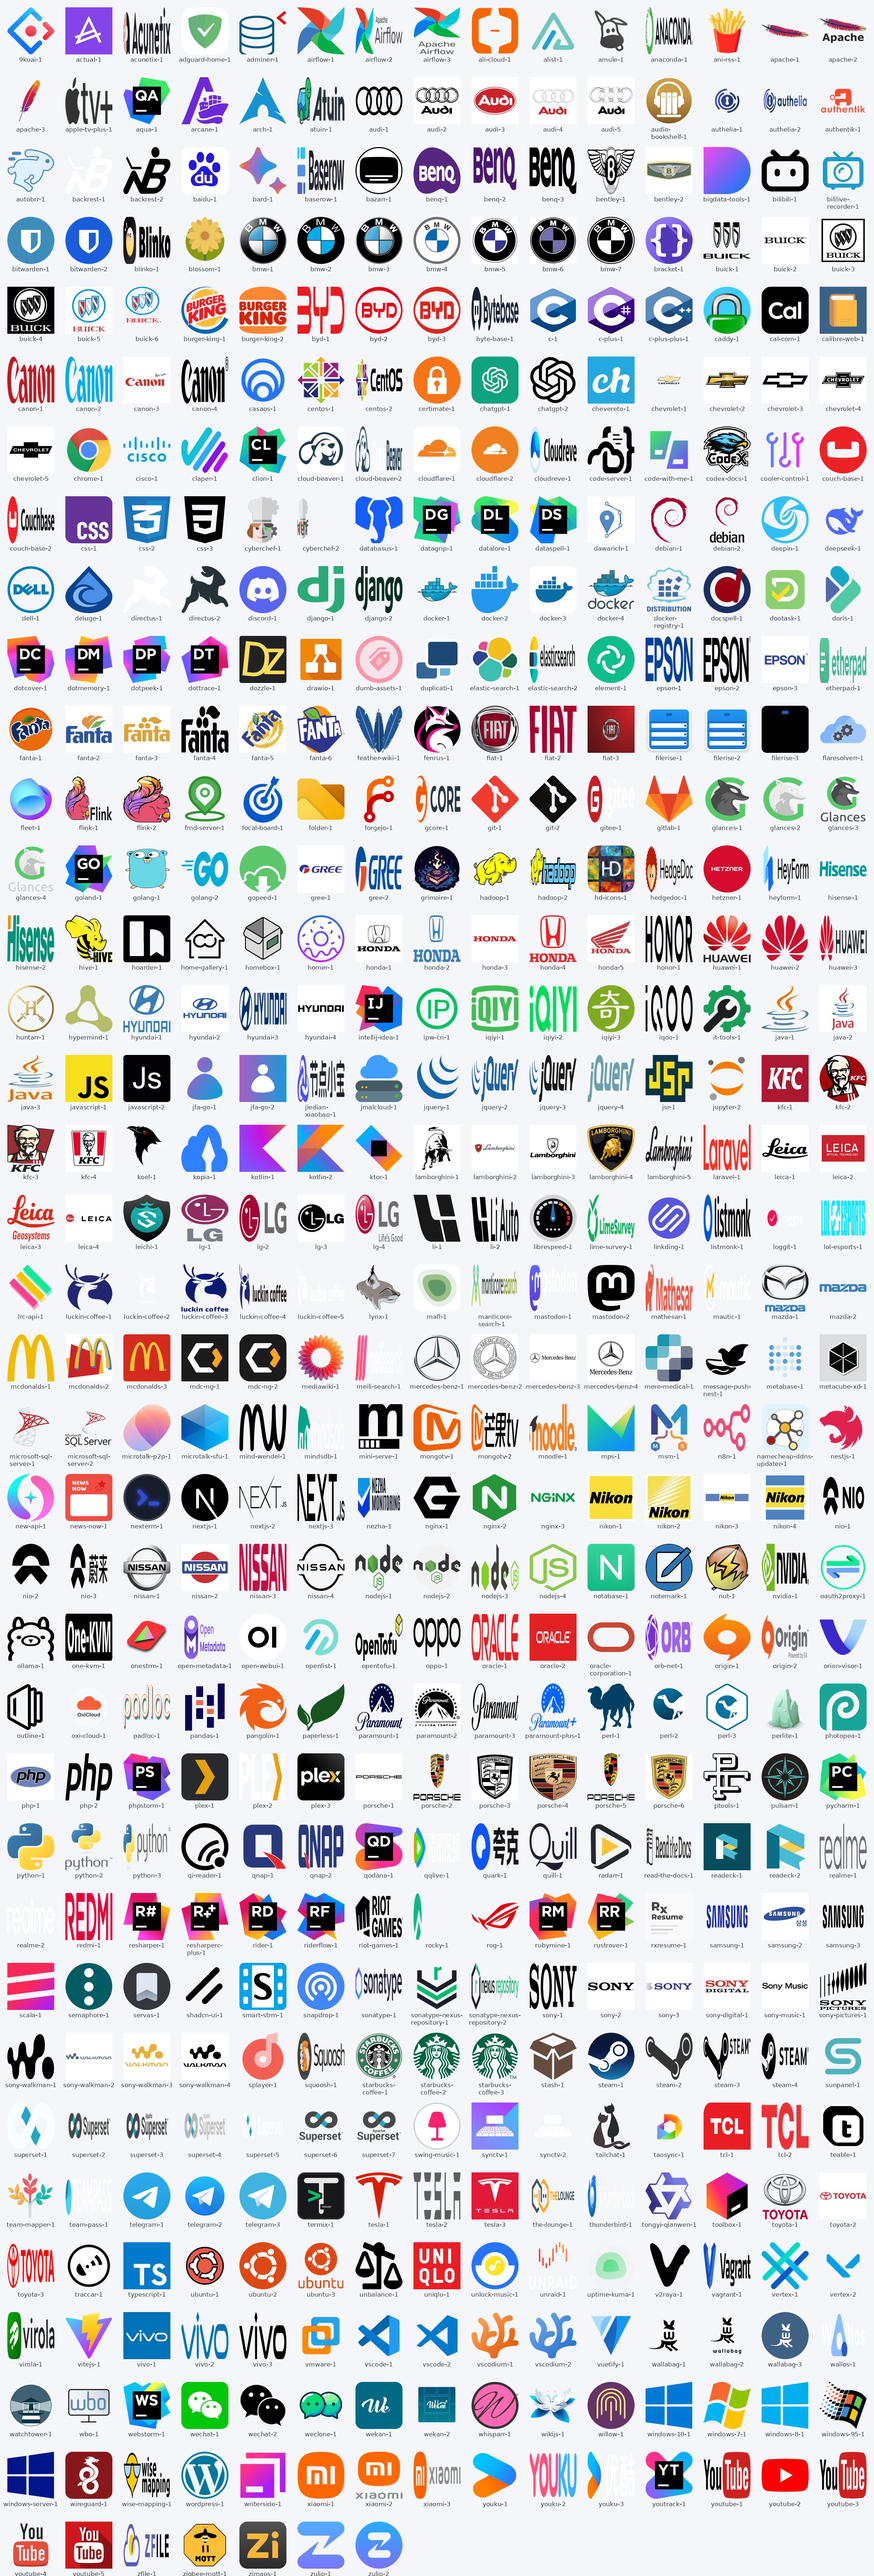
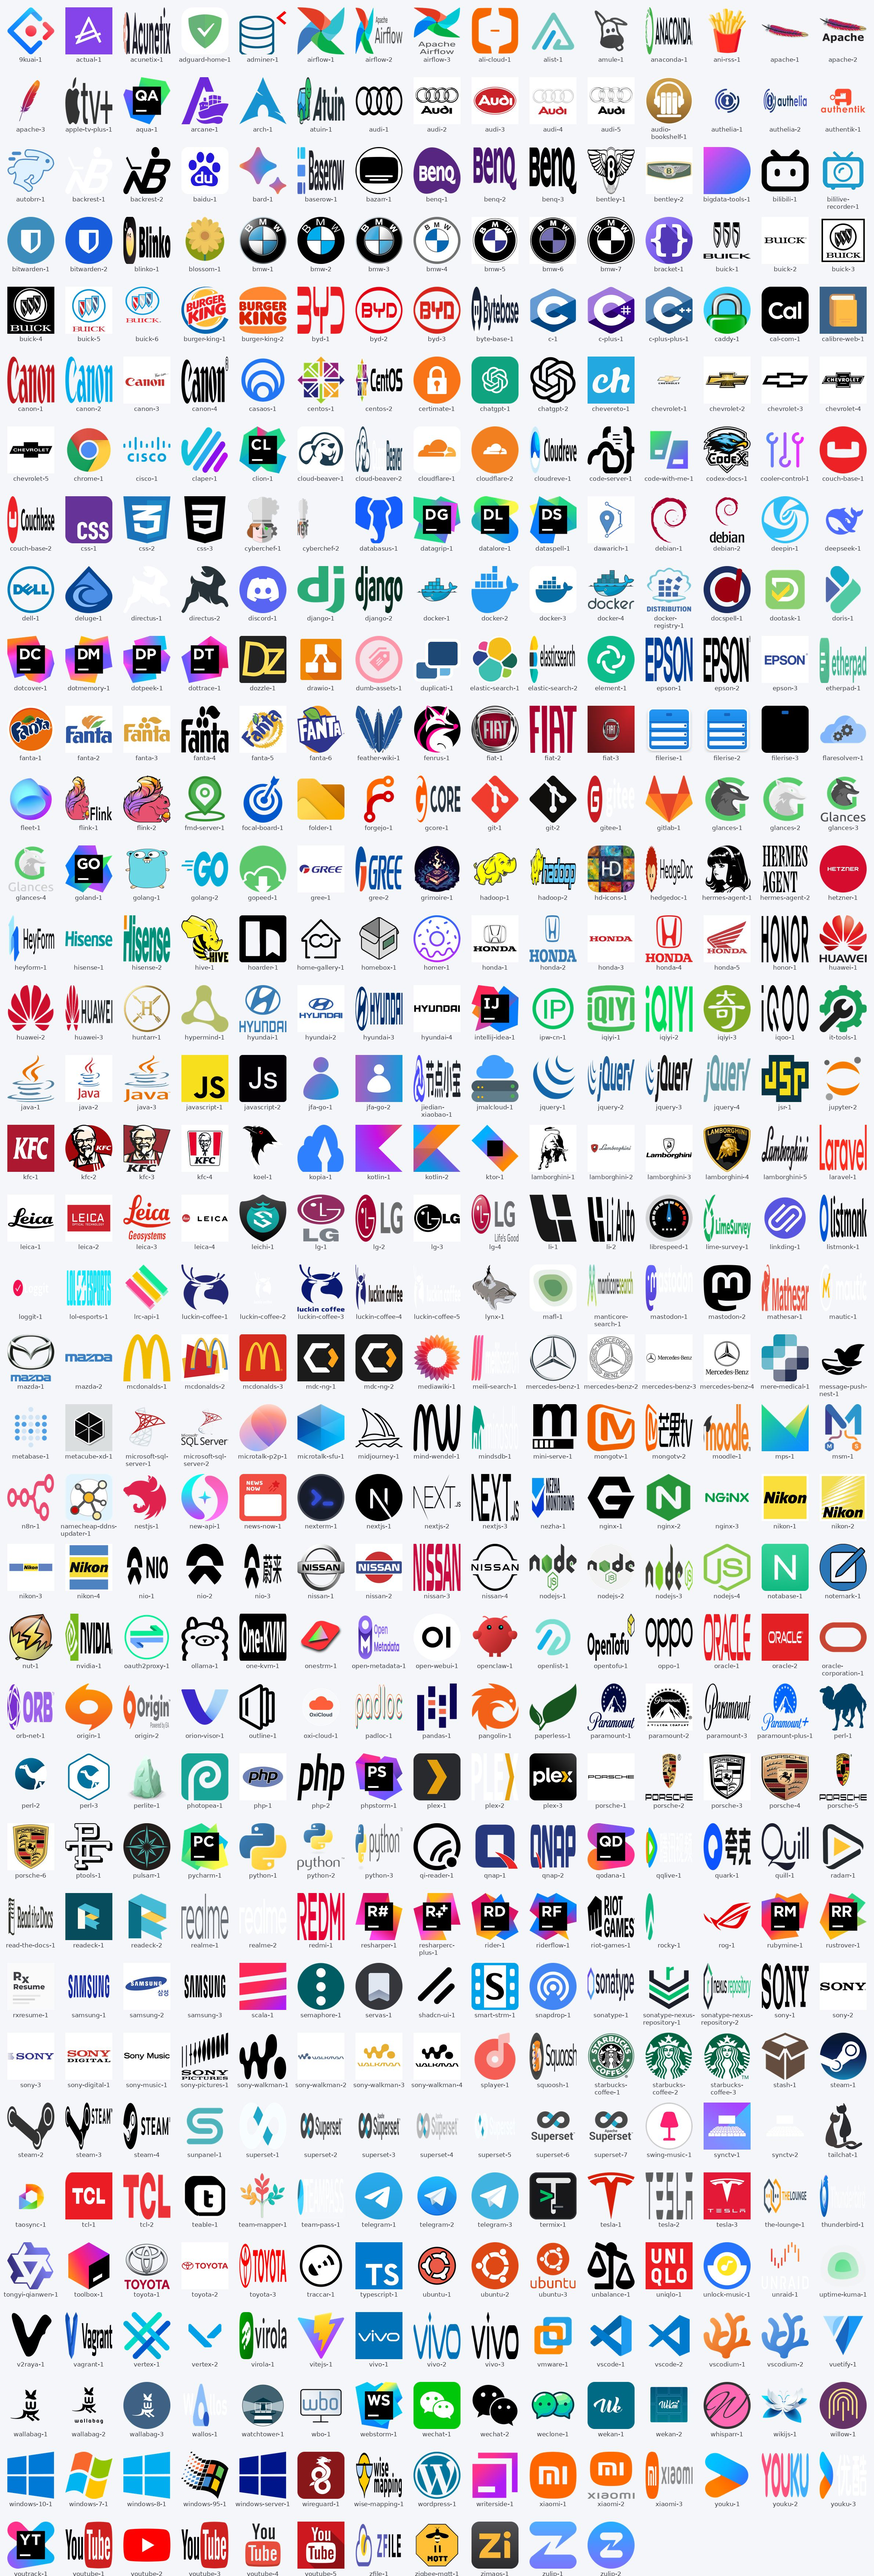
ci: 自动构建（新增 4 个图标）

Changed region(s): [[0.0, 0.3125, 0.995, 1.0]]

diff --git a/README.md b/README.md
@@ -12,7 +12,7 @@
 [![Last commit](https://img.shields.io/github/last-commit/xushier/HD-Icons?style=flat-square&color=6c5ce7)](https://github.com/xushier/HD-Icons/commits/main)
 [![jsDelivr hits](https://data.jsdelivr.com/v1/package/gh/xushier/HD-Icons/badge?style=rounded)](https://www.jsdelivr.com/package/gh/xushier/HD-Icons)
 
-**共 <!--ICONS:total-->1754<!--/ICONS:total--> 个图标，持续更新中**
+**共 <!--ICONS:total-->1758<!--/ICONS:total--> 个图标，持续更新中**
 </div>
 
 ---
@@ -30,7 +30,7 @@
 |------|------|------|
 | 📦 圆角矩形 | `border-radius/` | <!--ICONS:radius-->1083<!--/ICONS:radius--> |
 | ⭕ 圆形 | `circle/` | <!--ICONS:circle-->124<!--/ICONS:circle--> |
-| 🎨 SVG 矢量 | `svg/` | <!--ICONS:svg-->547<!--/ICONS:svg--> |
+| 🎨 SVG 矢量 | `svg/` | <!--ICONS:svg-->551<!--/ICONS:svg--> |
 
 ## 🚀 使用
 
@@ -99,7 +99,7 @@ https://raw.githubusercontent.com/xushier/HD-Icons/main/icons.json
 </details>
 
 <details open>
-<summary>🎨 SVG 矢量（<!--ICONS:svg-->547<!--/ICONS:svg-->）</summary>
+<summary>🎨 SVG 矢量（<!--ICONS:svg-->551<!--/ICONS:svg-->）</summary>
 <div align="center">
   <img src="_icons-svg.jpg" alt="SVG 图标预览" width="90%">
 </div>
